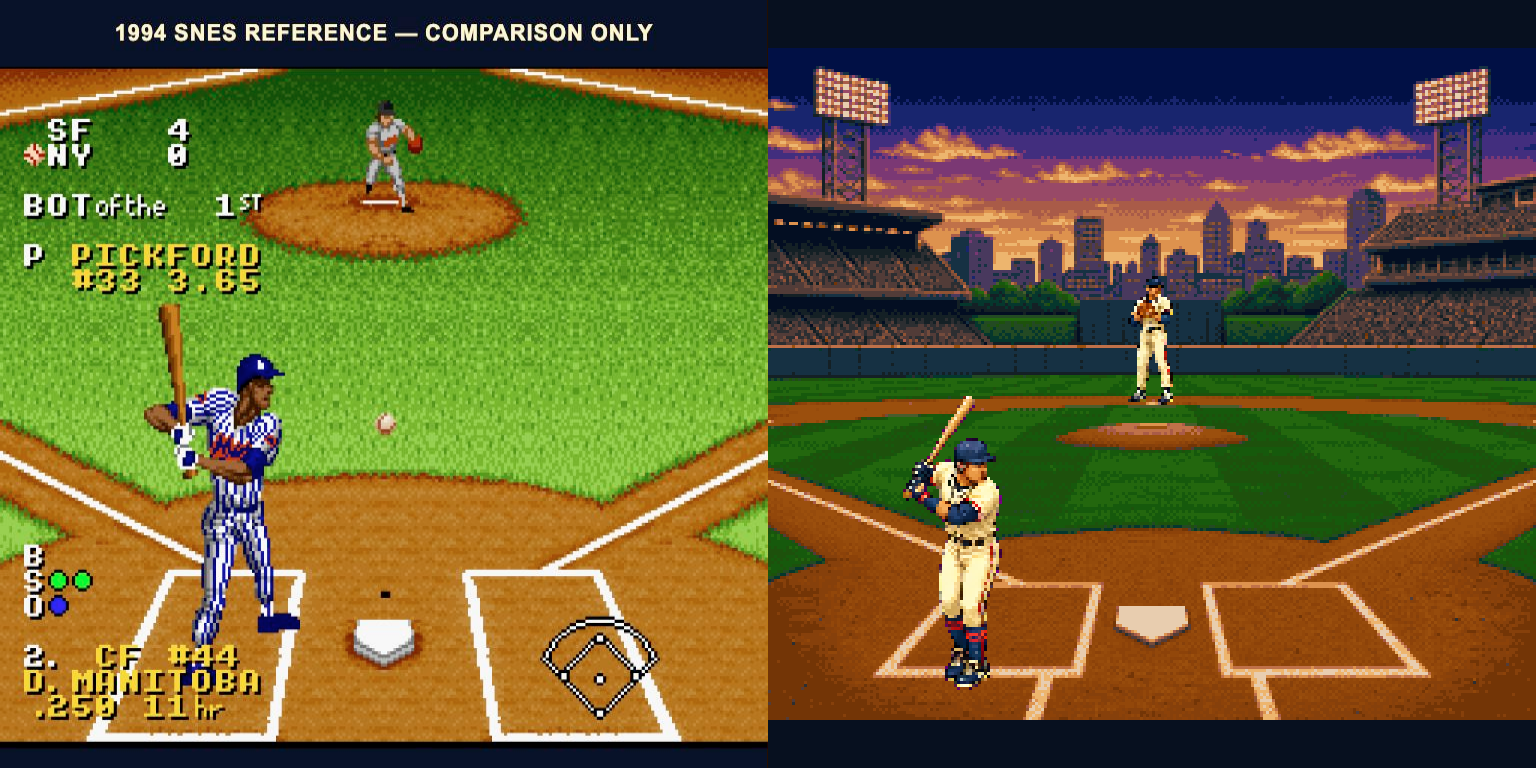
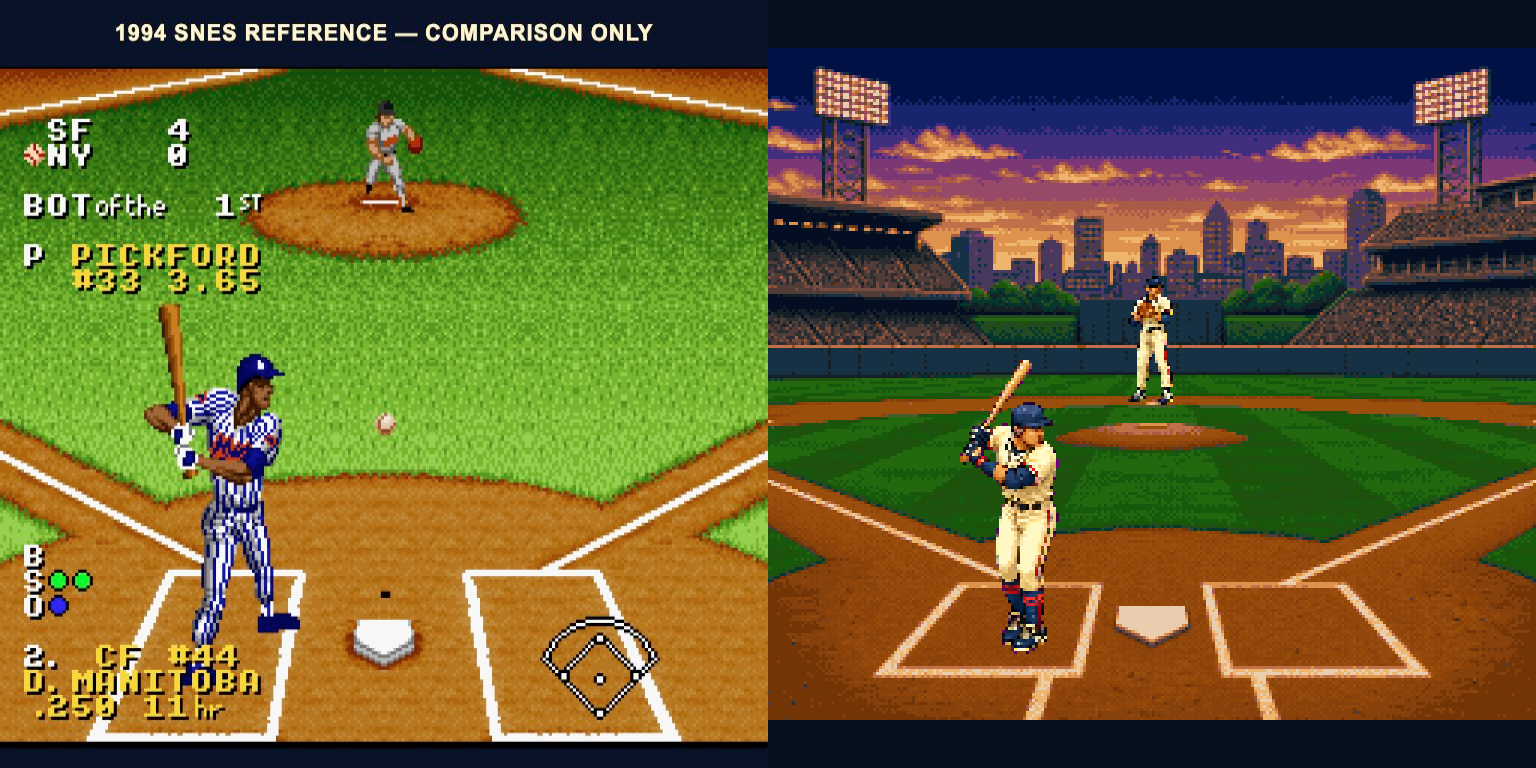
Place batter fully inside box

Changed region(s): [[0.5625, 0.4688, 0.6875, 0.9062]]

diff --git a/prototypes/diamond-dynasty/index.html b/prototypes/diamond-dynasty/index.html
@@ -8,7 +8,7 @@ Date: 2026-08-20 -->
     <meta name="viewport" content="width=device-width, initial-scale=1.0, viewport-fit=cover" />
     <meta name="theme-color" content="#071328" />
     <title>Diamond Dynasty '94 — Prototype</title>
-    <link rel="stylesheet" href="./style.css?v=sprite-art-v9" />
+    <link rel="stylesheet" href="./style.css?v=sprite-art-v10" />
   </head>
   <body>
     <main class="cabinet" aria-labelledby="game-title">
@@ -52,6 +52,6 @@ Date: 2026-08-20 -->
         Original code, characters, venue, sound synthesis, and pixel treatment. No MLB, Nintendo, or licensed game assets.
       </footer>
     </main>
-    <script type="module" src="./src/game.mjs?v=sprite-art-v9"></script>
+    <script type="module" src="./src/game.mjs?v=sprite-art-v10"></script>
   </body>
 </html>

diff --git a/prototypes/diamond-dynasty/art-review.html b/prototypes/diamond-dynasty/art-review.html
@@ -74,8 +74,8 @@
       }
       .field-batter {
         position: absolute;
-        left: 0.390625%;
-        top: 47.321429%;
+        left: 7.8125%;
+        top: 41.964286%;
         width: 46.875%;
         height: 50%;
         image-rendering: pixelated;
@@ -221,6 +221,6 @@
 
       <p class="timing-note">Game speed uses the live swing thresholds: 70 ms load, 65 ms stride, 60 ms plant, 60 ms swing, 60 ms contact, 70 ms extension, then a readable high-finish hold before reset.</p>
     </main>
-    <script type="module" src="./src/animation-review.mjs?v=5"></script>
+    <script type="module" src="./src/animation-review.mjs?v=6"></script>
   </body>
 </html>

diff --git a/prototypes/diamond-dynasty/README.md b/prototypes/diamond-dynasty/README.md
@@ -48,9 +48,9 @@ node --test tests/*.test.mjs
   and home-run outcomes
 - Nine-state original, depth-foreshortened three-quarter batter animation in a
   tight home-plate camera. The near/far legs overlap in the ready stance so the
-  hitter reads as aimed upfield rather than broadside, while his stride and
-  barrel travel through the incoming pitch; includes a seven-state pitcher
-  delivery
+  hitter reads as aimed upfield rather than broadside, and both shoes sit inside
+  the four batter-box chalk lines while his stride and barrel travel through the
+  incoming pitch; includes a seven-state pitcher delivery
 - Dedicated batter animation review with synchronized field/close views and a
   reproducible looping GIF
 - Original synthesized arcade sound cues
